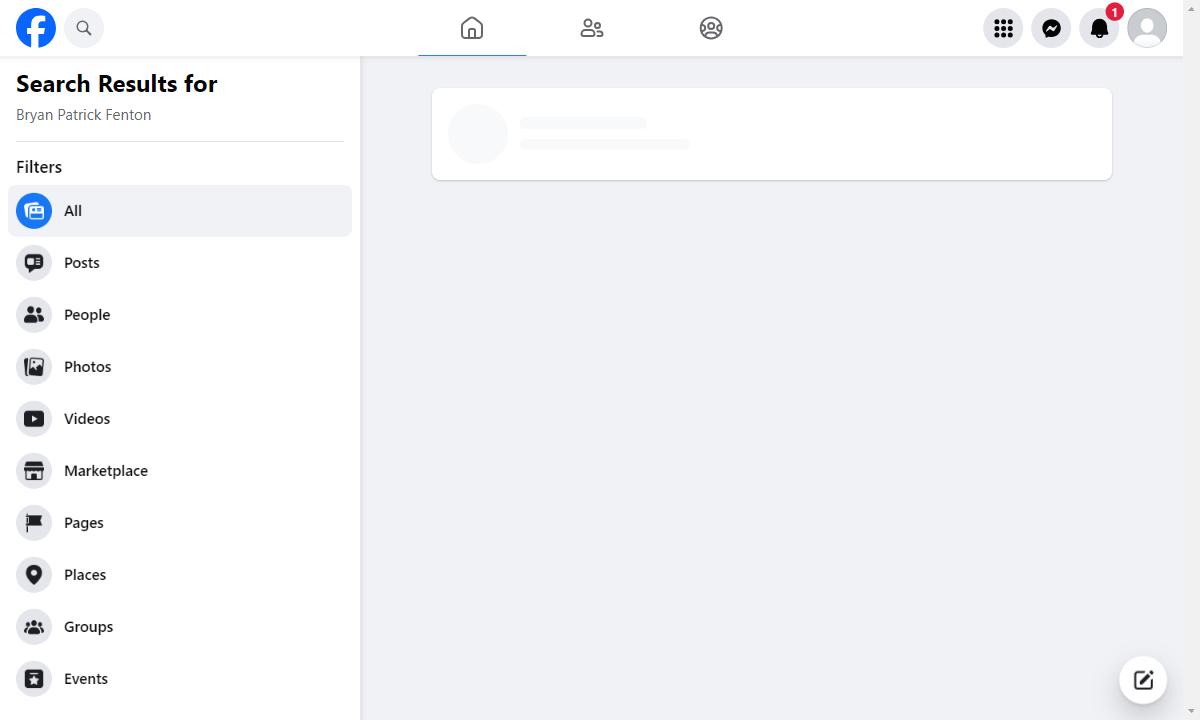
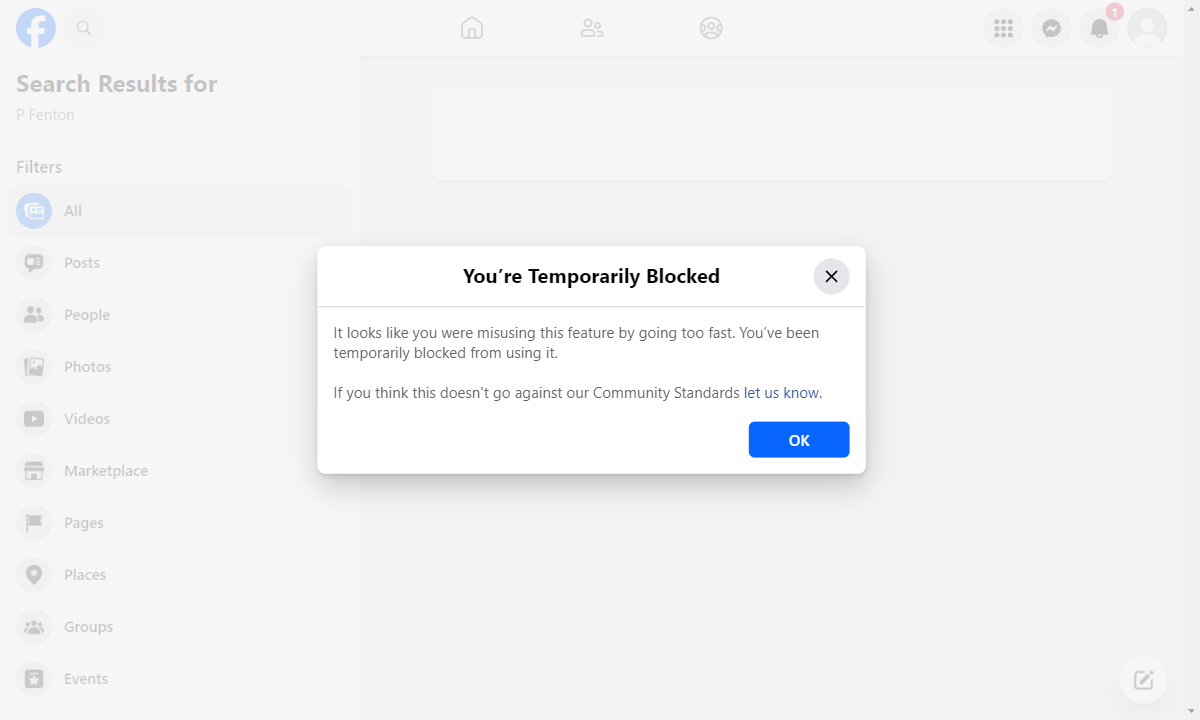
Test 1

diff --git a/src/facebook-monitor.js b/src/facebook-monitor.js
@@ -137,7 +137,7 @@ async function clickPeople(page, searchQuery){
     }
     
     // Wait for navigation after Clicking People
-    await page.waitForNavigation();
+    //await page.waitForNavigation();
 
     // Capture Screenshot of finished process
     await page.screenshot({ //capture screenshot
@@ -148,7 +148,7 @@ async function clickPeople(page, searchQuery){
 async function autoScroll(page, searchQuery){
 
     console.log("Auto Scroll Started Please Wait....");
-    
+
     try {
 
         let previousHeight;
@@ -164,7 +164,7 @@ async function autoScroll(page, searchQuery){
             });
 
             // Wait for a short interval to allow dynamic content to load
-            await new Promise(resolve => setTimeout(resolve, 10000));
+            await new Promise(resolve => setTimeout(resolve, 15000));
 
             // Get the updated height of the page
             currentHeight = await page.evaluate(() => document.body.scrollHeight);
